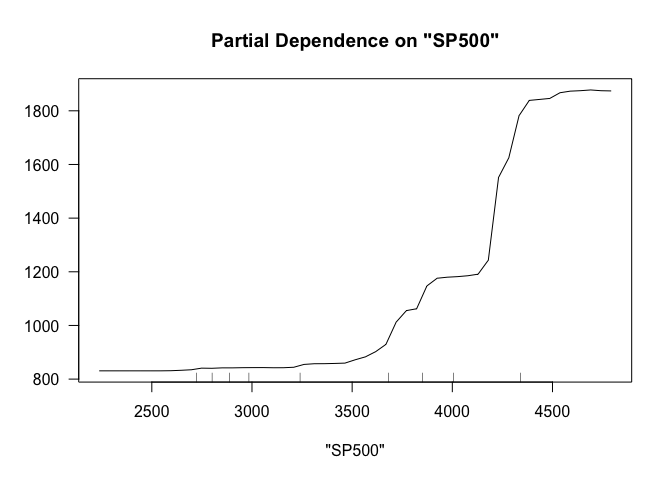
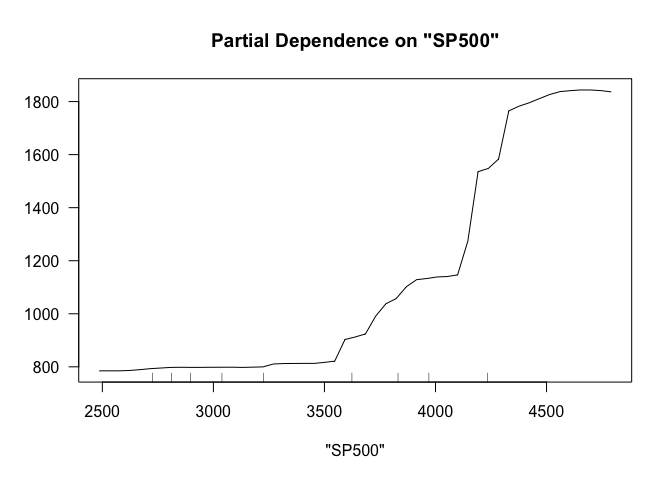
add sumstats

diff --git a/R_project.md b/R_project.md
@@ -74,6 +74,8 @@ Gradient boosting can work better than random forests with finely-tuned
 parameters. However, it is more sensitive to noise, thus more easily
 encounters over-fitting problems.
 
+<img src="SumStat.png" width="1170" />
+
 # Results
 
 ## Bitcoin
@@ -84,13 +86,13 @@ encounters over-fitting problems.
 
 ![](R_project_files/figure-markdown_strict/bitcoin_CART-1.png)
 
-    ## [1] 2402.217
+    ## [1] 2089.426
 
 ### Random Forest
 
 ![](R_project_files/figure-markdown_strict/bitcoin_RF,%20-1.png)
 
-    ## [1] 915.735
+    ## [1] 1054.255
 
 ![](R_project_files/figure-markdown_strict/RF_dependence_plot1-1.png)
 
@@ -102,9 +104,9 @@ encounters over-fitting problems.
 
 ![](R_project_files/figure-markdown_strict/bitcoin_gradient-1.png)![](R_project_files/figure-markdown_strict/bitcoin_gradient-2.png)
 
-    ## [1] 500
+    ## [1] 498
 
-    ## [1] 1146.371
+    ## [1] 1391.59
 
 <table>
 <thead>
@@ -123,7 +125,7 @@ RMSE
 CART
 </td>
 <td style="text-align:right;">
-2402.217
+2089.426
 </td>
 </tr>
 <tr>
@@ -131,7 +133,7 @@ CART
 Random Forest
 </td>
 <td style="text-align:right;">
-915.735
+1054.255
 </td>
 </tr>
 <tr>
@@ -139,7 +141,7 @@ Random Forest
 Gradient Boosting
 </td>
 <td style="text-align:right;">
-1146.371
+1391.590
 </td>
 </tr>
 </tbody>
@@ -152,13 +154,13 @@ Gradient Boosting
 
 ![](R_project_files/figure-markdown_strict/ethereum_CART-1.png)
 
-    ## [1] 243.3626
+    ## [1] 180.1675
 
 ### Random Forest
 
 ![](R_project_files/figure-markdown_strict/ethereum_RF,%20-1.png)
 
-    ## [1] 91.88629
+    ## [1] 85.85477
 
 ![](R_project_files/figure-markdown_strict/ether_RF_dependence_plot1-1.png)
 
@@ -170,9 +172,9 @@ Gradient Boosting
 
 ![](R_project_files/figure-markdown_strict/ethereum_gradient-1.png)![](R_project_files/figure-markdown_strict/ethereum_gradient-2.png)
 
-    ## [1] 484
+    ## [1] 490
 
-    ## [1] 107.9797
+    ## [1] 86.15086
 
 <table>
 <thead>
@@ -191,7 +193,7 @@ RMSE
 CART
 </td>
 <td style="text-align:right;">
-243.36258
+180.16754
 </td>
 </tr>
 <tr>
@@ -199,7 +201,7 @@ CART
 Random Forest
 </td>
 <td style="text-align:right;">
-91.88629
+85.85477
 </td>
 </tr>
 <tr>
@@ -207,7 +209,7 @@ Random Forest
 Gradient Boosting
 </td>
 <td style="text-align:right;">
-107.97969
+86.15086
 </td>
 </tr>
 </tbody>
